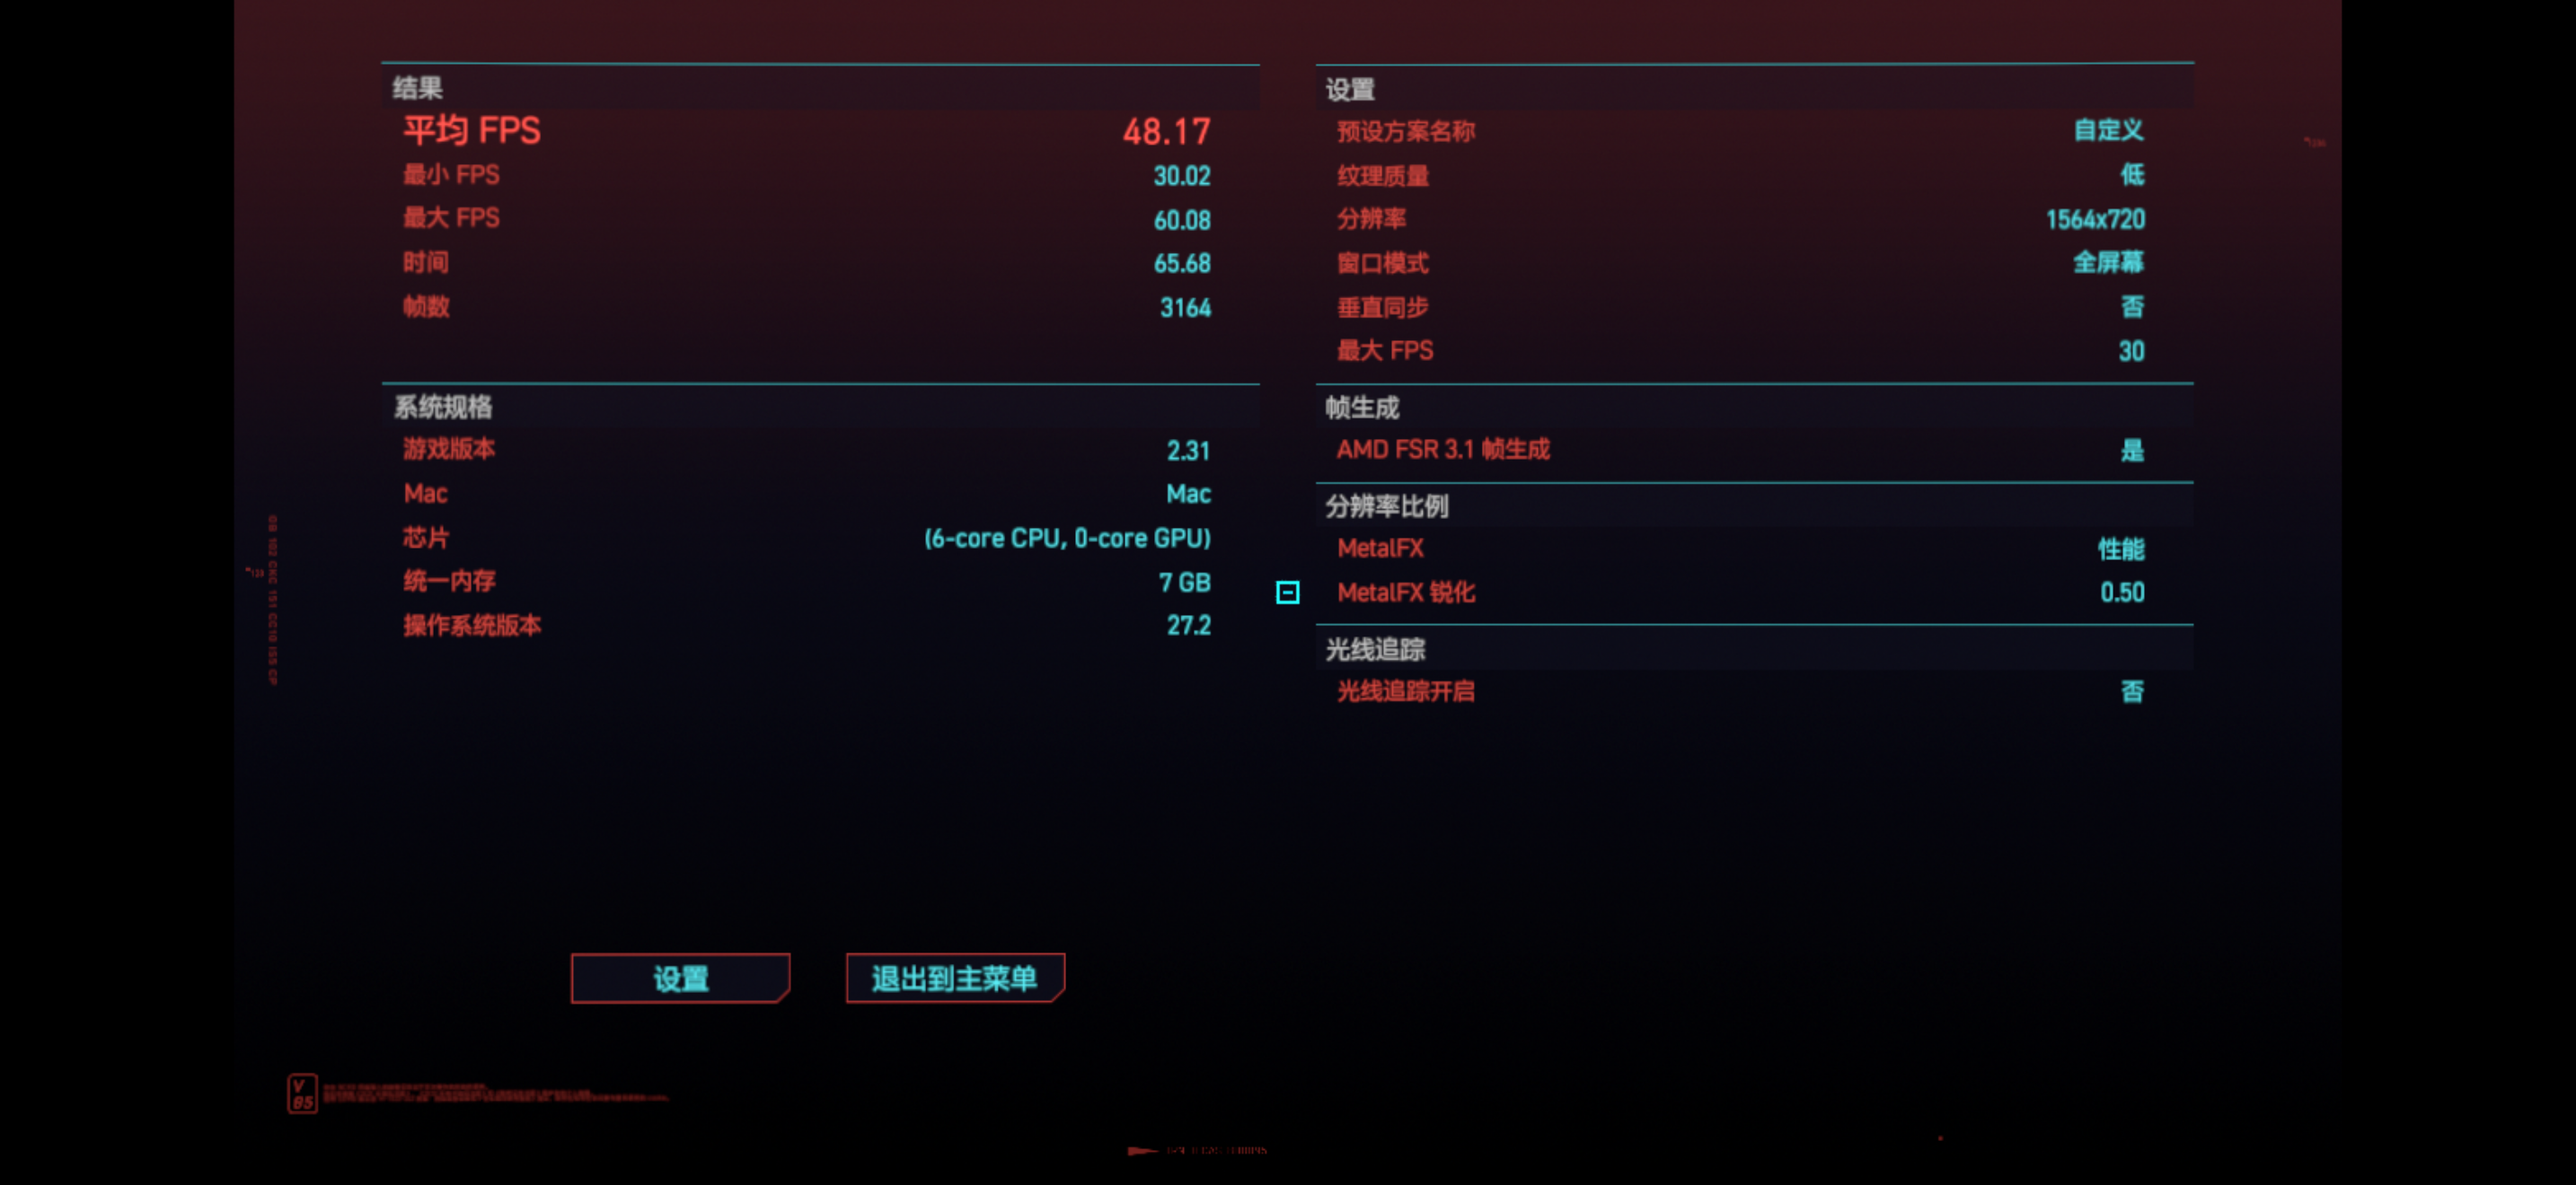
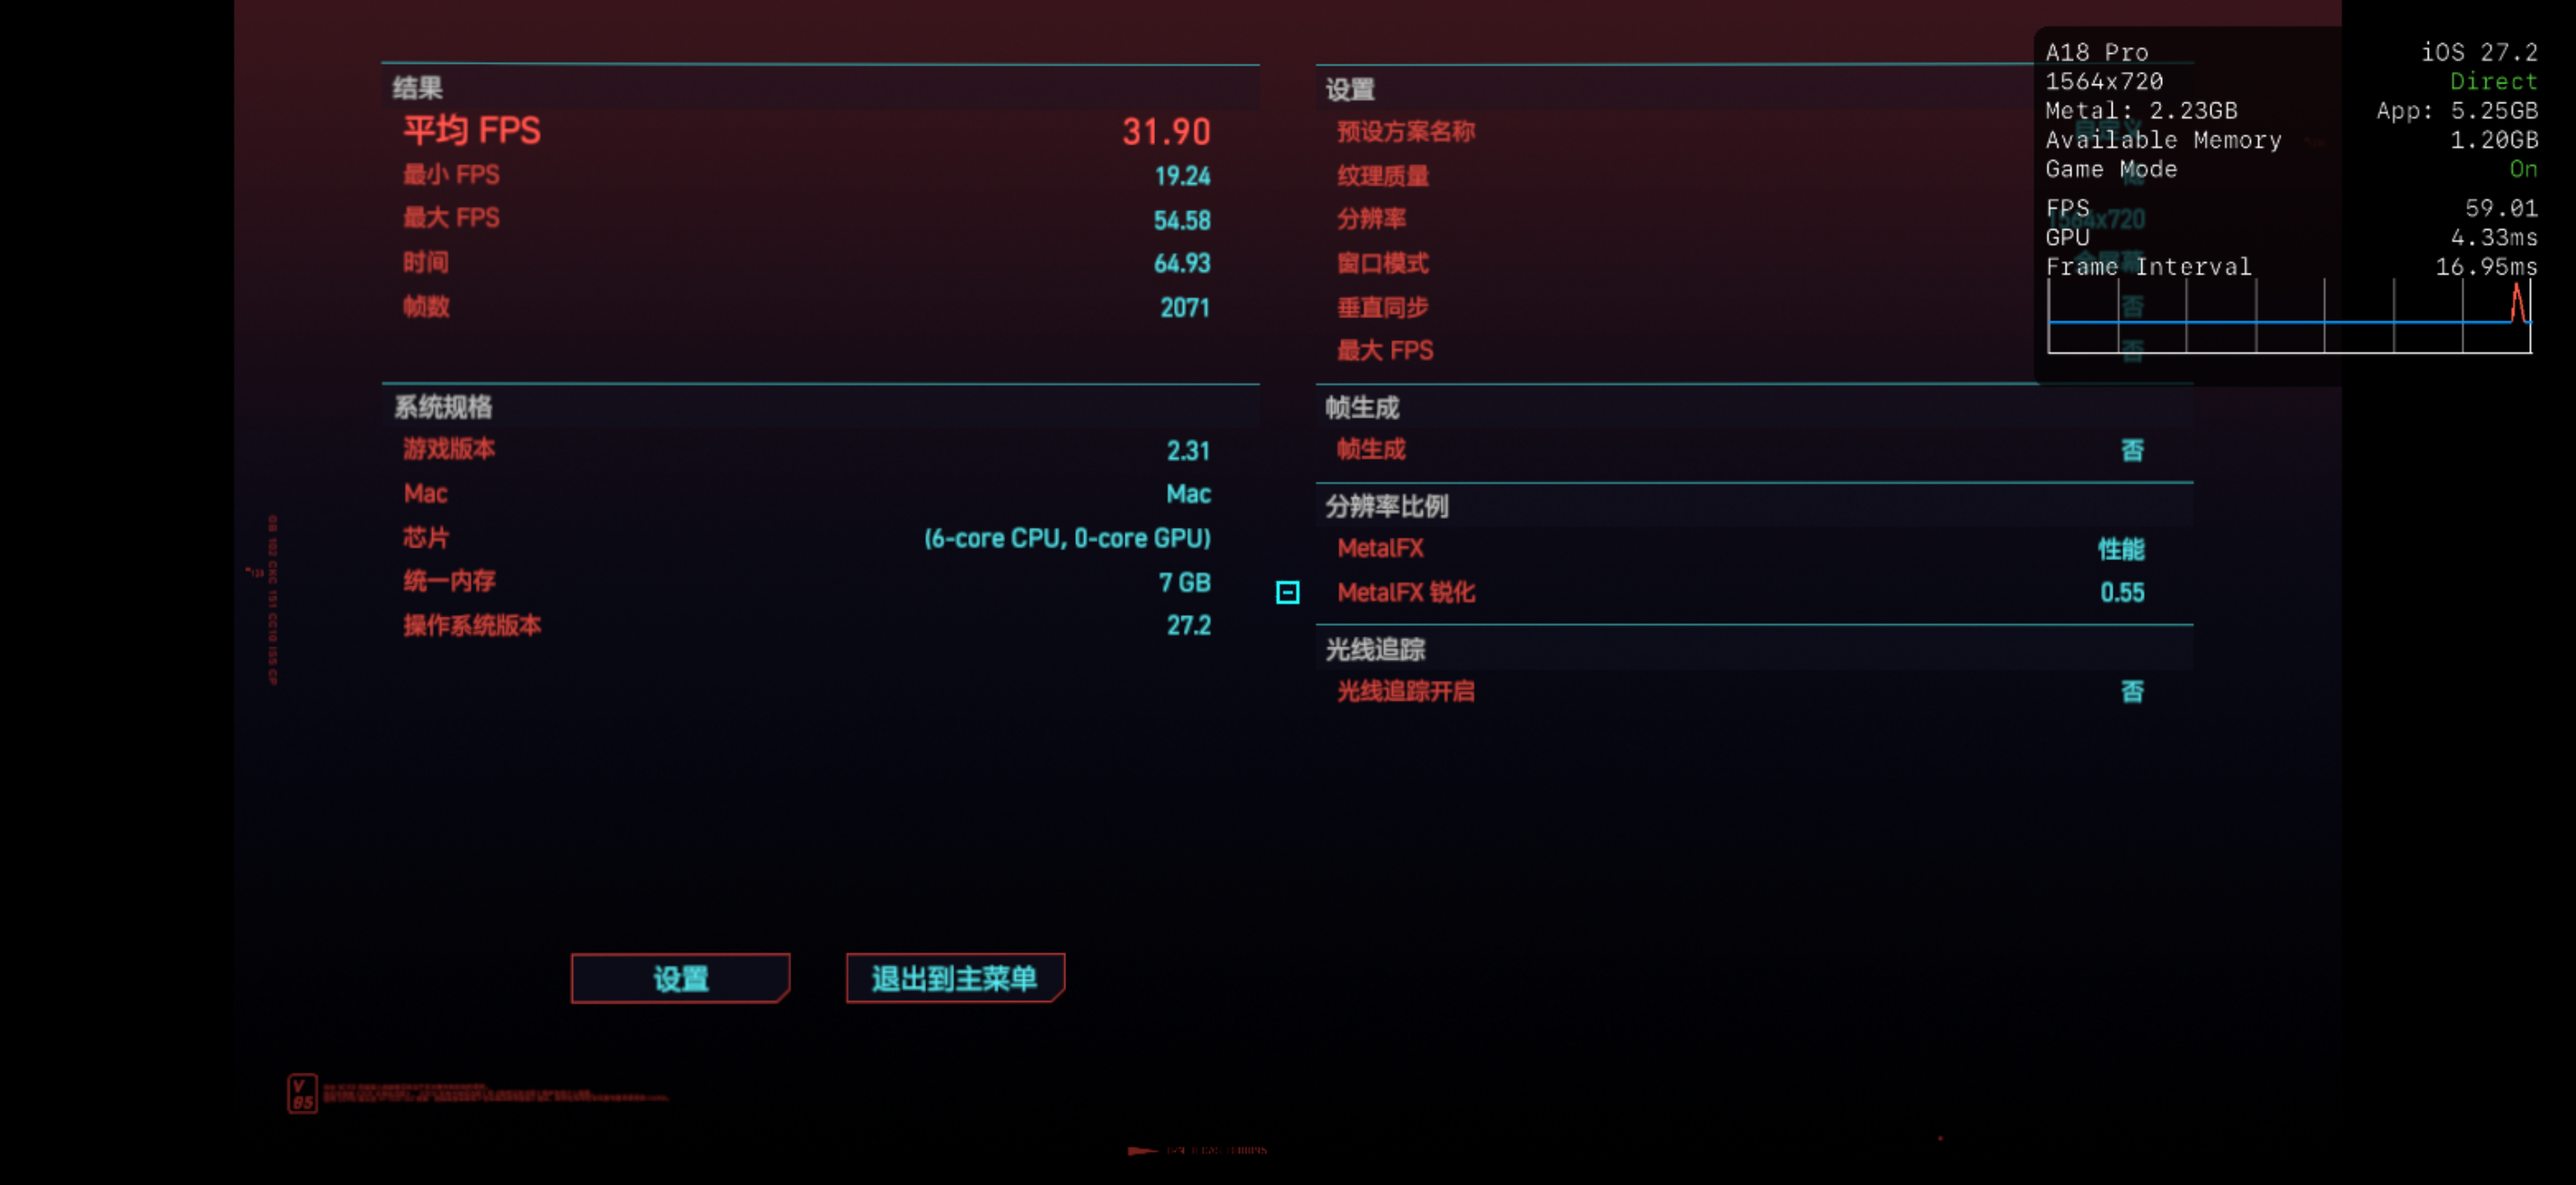
Replace benchmark screenshot with frame generation disabled

diff --git a/README.md b/README.md
@@ -22,9 +22,9 @@
 
 ![触控界面](docs/screenshots/touch-controls.png)
 
-**游戏内基准测试（FSR 帧生成开启）**
+**游戏内基准测试（帧生成关闭）**
 
-![游戏内基准测试（FSR 帧生成开启）](docs/screenshots/benchmark.png)
+![游戏内基准测试（帧生成关闭）](docs/screenshots/benchmark.png)
 
 ## 安装与导入资源
 
